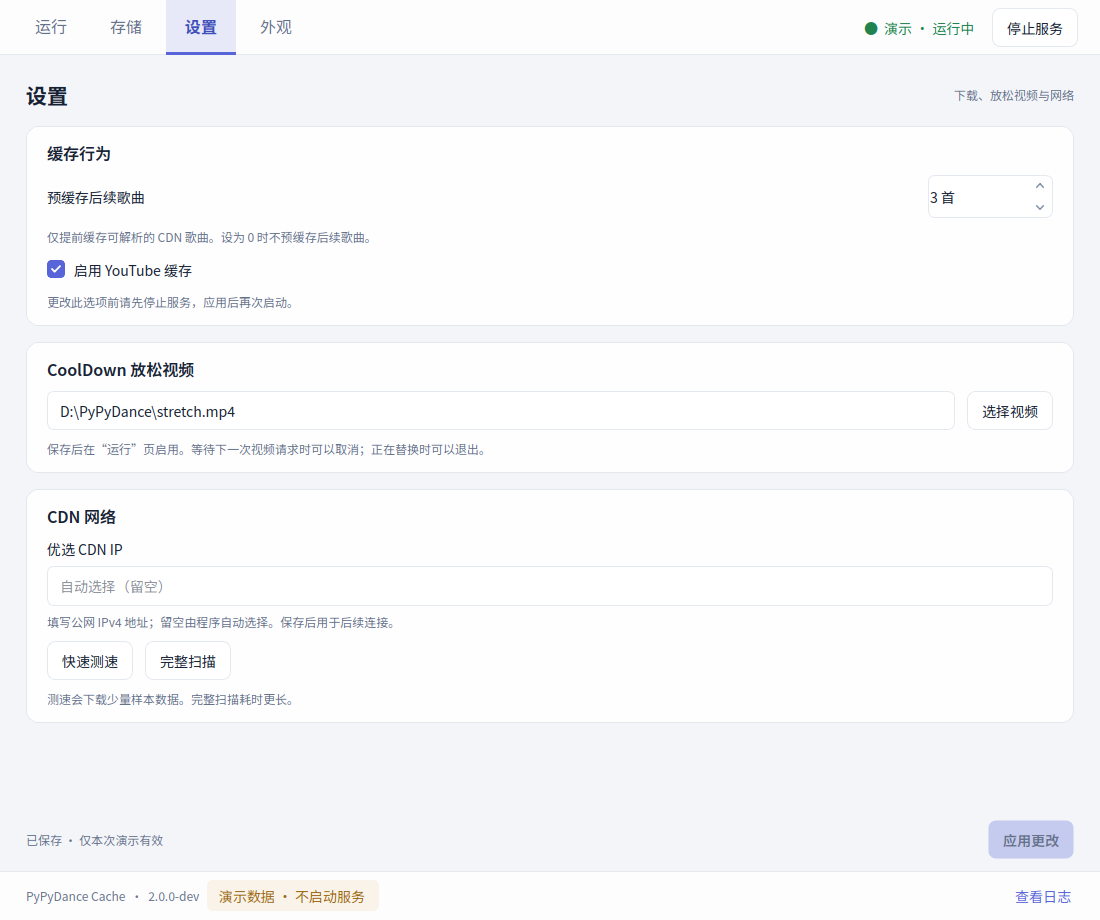
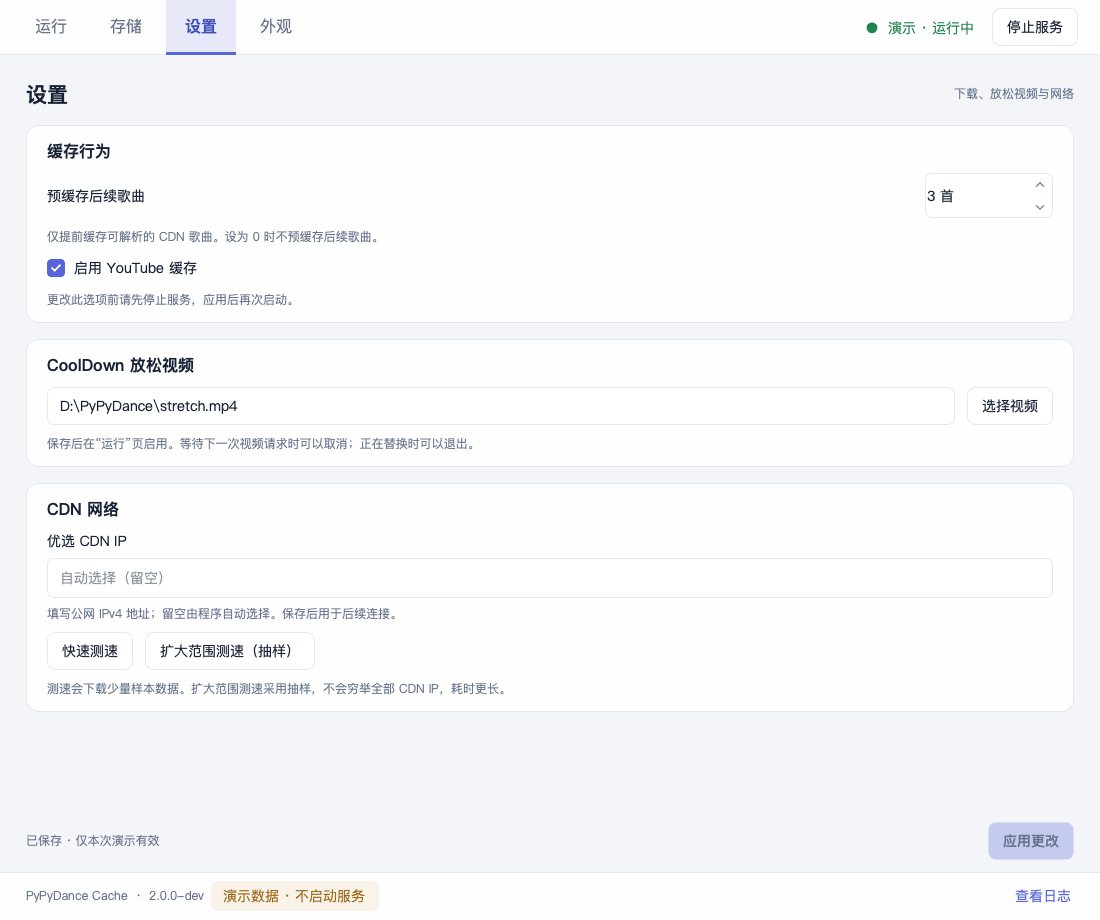
fix(ui): clarify sampled CDN testing and record macOS validation

diff --git a/dance_ui/app.py b/dance_ui/app.py
@@ -434,7 +434,7 @@ class MainWindow(QMainWindow, Pages):
         self.cancel_maintenance_button.setEnabled(False)
 
     def start_scan(self, full):
-        if full and QMessageBox.question(self, "完整扫描 CDN", "完整扫描会连接更多 CDN 地址并下载测试数据，可能需要数分钟。现在开始？",
+        if full and QMessageBox.question(self, "扩大范围测速（抽样）", "将从更大范围的 CDN IP 中抽样连接并下载测试数据，不会穷举全部 IP，可能需要数分钟。现在开始？",
                                          QMessageBox.StandardButton.Yes | QMessageBox.StandardButton.No,
                                          QMessageBox.StandardButton.No) != QMessageBox.StandardButton.Yes:
             return
@@ -444,7 +444,7 @@ class MainWindow(QMainWindow, Pages):
         self._scan_results = []
         self.scan_table.setRowCount(0)
         self.scan_table.hide()
-        self.scan_status.setText("正在扫描和测速，请稍候…" if full else "正在测试候选 CDN 地址…")
+        self.scan_status.setText("正在扩大范围抽样测速，请稍候…" if full else "正在测试候选 CDN 地址…")
         self.controller.scan(full=full)
 
     def finish_scan(self, results):
@@ -613,7 +613,7 @@ class MainWindow(QMainWindow, Pages):
             self.controller.refresh_stats()
         elif kind == "speedtest_result":
             self._scan_results.append(data)
-            self.scan_status.setText(f"已测试 {len(self._scan_results)} 个地址，测速继续进行…")
+            self.scan_status.setText(f"已测试 {len(self._scan_results)} 个地址，测速继续进行；扩大范围测速仅抽样，不穷举全部 IP。")
         elif kind == "speedtest_done":
             self.finish_scan(data.get("results"))
 

diff --git a/dance_ui/pages.py b/dance_ui/pages.py
@@ -148,10 +148,10 @@ class Pages:
         self.preferred_ip.textChanged.connect(lambda: self.mark_dirty("settings"))
         network.box.addWidget(field("优选 CDN IP", self.preferred_ip, "填写公网 IPv4 地址；留空由程序自动选择。保存后用于后续连接。"))
         self.quick_scan_button = button("快速测速", lambda: self.start_scan(False))
-        self.full_scan_button = button("完整扫描", lambda: self.start_scan(True))
+        self.full_scan_button = button("扩大范围测速（抽样）", lambda: self.start_scan(True))
         actions, _ = row(self.quick_scan_button, self.full_scan_button, stretch=True)
         network.box.addWidget(actions)
-        self.scan_status = label("测速会下载少量样本数据。完整扫描耗时更长。", muted=True, wrap=True)
+        self.scan_status = label("测速会下载少量样本数据。扩大范围测速采用抽样，不会穷举全部 CDN IP，耗时更长。", muted=True, wrap=True)
         network.box.addWidget(self.scan_status)
         self.scan_table = table(["IP 地址", "实测速度", "结果"], 0)
         self.scan_table.hide()

diff --git a/docs/VALIDATION.md b/docs/VALIDATION.md
@@ -2,7 +2,61 @@
 
 日期：2026-10-17。开发基线：`5efd712073d696e180ffeedfbfe51afd293f702e`。
 
-## 本轮结果
+## 本机复验：2026-10-17，macOS
+
+本节为 Codex 接手后在本机实际执行的结果，与下面保留的历史 Linux 记录分开。
+
+- 环境：macOS 27.0.1、Apple Silicon arm64、Python 3.12.14、PySide6-Essentials / Qt 6.12.0、Pillow 12.3.0。
+- 工作区原先为空 Git 仓库，没有已有源码、提交或修改。核验本机 `gh` 账号为 `Xiaoyu12-CPU`，目标 Fork 有 push 权限；Git HTTPS 使用该 `gh` 账号的凭据帮助程序。
+- 从 `origin/main` 的 `5efd712073d696e180ffeedfbfe51afd293f702e` 创建 `ui-redesign`，用 `git am` 恢复交接补丁；恢复提交为 `bdaba2c86072a17ce18a353c54349f25cb621dfe`。补丁原提交 `125489bddaeda3fb6dc72c8f3422533a484ab3d6` 未当作远程可用提交。
+- 交接目录全部 SHA-256 校验通过，恢复后的 36 个文件与源码 ZIP 逐字节一致。随后只修正扩大范围测速的抽样文案，并更新本记录及设置页截图；四页布局、默认浅色方案与核心技术路线保持原实现。
+
+### 自动化测试
+
+在项目独立 `.venv` 中执行完整测试，Qt 使用 `offscreen`：
+
+```sh
+.venv/bin/python -m pip install -r requirements.txt
+.venv/bin/python -m pip check
+QT_QPA_PLATFORM=offscreen .venv/bin/python -m unittest discover -s tests -v
+```
+
+| 测试组 | 实际执行 | 通过 | 失败 / 错误 | 跳过 |
+| --- | ---: | ---: | ---: | ---: |
+| 核心 | 39 | 39 | 0 | 0 |
+| 主题存储 | 15 | 15 | 0 | 0 |
+| Qt 界面集成 | 14 | 14 | 0 | 0 |
+| 合计 | **68** | **68** | **0** | **0** |
+
+恢复后和文案修正后各完整运行一次，耗时分别为 5.296 秒、3.736 秒，两次退出码均为 0。以上是 68 个测试用例的结果，不把两次运行合并称为 136 个用例。`pip check` 未发现依赖冲突。
+
+另外以 AST 解析 15 个受版本控制的 Python/spec 文件，以及构建脚本内 3 段 Python，均通过。没有执行 PowerShell 或 Windows 构建。核心 diff 审阅未确认新增实质回归，但隔离测试与代码审阅不能代替真实视频请求。
+
+### `--demo` 界面与外观保存
+
+实际启动 `dance_cache_gui.py --demo --state-dir PATH` 的入口，通过本地临时 Qt 检查脚本，在两个独立进程中运行。使用原生 `cocoa` 平台、1100 × 810 逻辑窗口、2× DPR，并抓取真实 Qt 窗口图像。
+
+1. 首次启动核对默认浅色和四个导航页面；逐页生成截图，核对中文、日文、列表和滚动区域。
+2. 经外观控件切换深色、将强调色改为 `#42A5F5`，设置 125% 缩放、紧凑密度、默认展开日志。
+3. 将圆角滑块改为 18，并在 60ms 延迟保存前立即正常关闭；退出后读回文件确认圆角已保存。
+4. 第二个进程从同一状态目录启动，确认上述主题、配色、圆角、缩放、密度和日志偏好恢复；再切回浅色，确认浅色配色独立、全局阅读偏好保留。
+
+两阶段检查均通过。真实核心操作均设为禁止调用的替身，调用次数为 0；工作区没有产生 `config.json` 或 `mapping.json`，未启动缓存服务、修改 hosts 或接入 VRChat。个人外观和测试产物只保存在忽略的 `.ui-state/` 下，未提交。
+
+另运行 `tools/capture_ui.py` 生成六张 1100 × 920 离屏演示截图并检查四页及深色画面。`docs/screenshots/settings.png` 更新为本机生成、使用系统可用字体的抽样测速文案版本；其余随包截图保留历史版本，没有分发系统字体。
+
+辅助检查限制：本机桌面自动化无法连接普通 Python 窗口，临时应用启动器连接亦超时，因此没有完成外部鼠标/键盘交互验收；以上 Cocoa 检查由 Qt 事件循环驱动。临时检查脚本首次因括号语法错误未启动，修正后两阶段均通过，此问题不是项目测试失败。测试日志另有字体别名提示、原生演示有 macOS IMK mach-port 警告，进程与断言均正常完成。
+
+### 本次仍未执行
+
+- 原生 Windows 的 UAC、80/443 端口、真实服务启停与 hosts 恢复/失败重试。
+- VRChat、CDN、YouTube 的实际请求、命中、后台保存，以及旧配置、映射和真实曲库兼容验收。
+- Windows 系统 125%/150% 缩放、原生文件对话框、长标题和长路径完整交互。
+- Windows exe 构建、随包 Qt 插件与资源、产物启动和分发验证；没有可发布 exe，也未创建 Release。
+
+下一步在原生 Windows 独立测试目录中，先运行相同测试与 `--demo`，再验证真实服务和旧数据，最后构建并验收完整 onedir 产物。
+
+## 历史隔离环境结果（交接包记录）
 
 在 Linux / Python 3.12、PySide6-Essentials 6.12.0、Pillow 12.3.0 环境运行，Qt 使用 `offscreen` 平台。
 
@@ -29,9 +83,9 @@ python -m unittest discover -s tests -v
 
 没有安装 Qt/Pillow 时，GUI 集成测试会跳过；只有包含 GUI 测试的完整运行才对应本记录。
 
-## 界面截图
+## 历史截图与截图工具
 
-`docs/screenshots/` 是实际程序使用演示数据的渲染结果，尺寸为 1100 × 920。截图环境额外载入 Noto Sans SC 字体；字体没有打入源码或程序包，Windows 优先使用 Microsoft YaHei UI。
+原交接包的 `docs/screenshots/` 是实际程序使用演示数据的渲染结果，尺寸为 1100 × 920。历史截图环境额外载入 Noto Sans SC 字体；字体没有打入源码或程序包，Windows 优先使用 Microsoft YaHei UI。本次替换的设置页截图环境见上方本机复验记录。
 
 ```powershell
 python tools/capture_ui.py --output docs/screenshots
